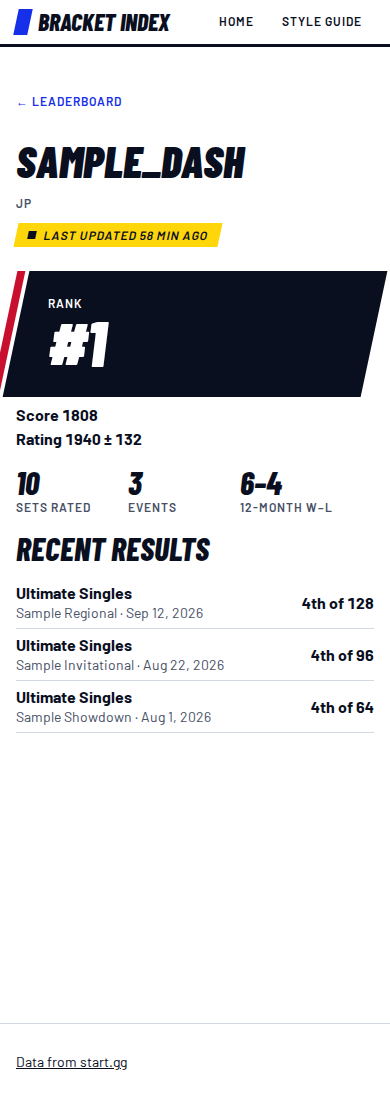
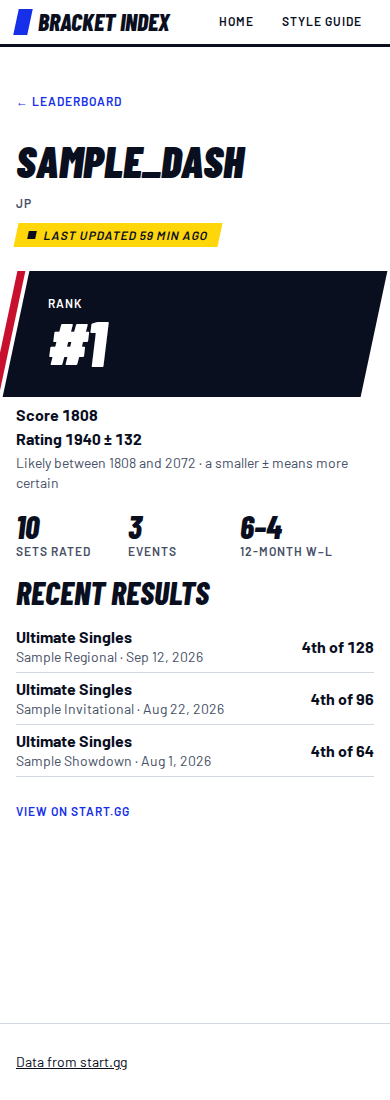
fix(app): player page hydration, start.gg URL allow-list, single-segment rewrite
Claude-Session: https://claude.ai/code/session_01EmiPNYLaxRfYJT2qzBUjng

Changed region(s): [[0.0308, 0.4018, 0.5846, 0.7418], [0.5231, 0.4018, 0.9538, 0.7109]]

diff --git a/e2e/tests/player.spec.ts b/e2e/tests/player.spec.ts
@@ -27,6 +27,13 @@ async function expectNoSeriousViolations(page: Page) {
   );
 }
 
+// Any uncaught page error (such as a React hydration mismatch) fails the test.
+test.beforeEach(({ page }) => {
+  page.on("pageerror", (error) => {
+    throw error;
+  });
+});
+
 test("opens a player from a leaderboard row", async ({ page, request }) => {
   const top = await findPlayer(request, true);
   await page.goto("/");
@@ -54,7 +61,10 @@ test("a ranked player shows rank, score, rating, stats, results and attribution"
   const results = page.getByRole("list", { name: "Recent results" });
   await expect(results.getByRole("listitem").first()).toContainText(/\d+(st|nd|rd|th) of \d+/);
   await expect(page.getByRole("link", { name: /Data from start\.gg/ })).toBeVisible();
-  await expect(page.getByRole("link", { name: /Leaderboard/ })).toHaveAttribute("href", "/");
+  await expect(page.getByRole("link", { name: "Back to leaderboard" })).toHaveAttribute(
+    "href",
+    "/",
+  );
   await expectNoSeriousViolations(page);
 });
 
@@ -66,23 +76,44 @@ test("an unranked player says why", async ({ page, request }) => {
   await expectNoSeriousViolations(page);
 });
 
-test("the start.gg link opens externally and safely when present", async ({ page, request }) => {
-  const top = await findPlayer(request, true);
-  const data = (await (await request.get(`${API}/v1/players/${top.playerId}`)).json()) as {
-    startggUrl: string | null;
+test("the seeded Sample_Dash links to start.gg, opening safely in a new tab", async ({
+  page,
+  request,
+}) => {
+  const hits = (await (await request.get(`${API}/v1/search?q=sample_dash`)).json()) as {
+    results: Hit[];
   };
-  await page.goto(`/player/${top.playerId}-x`);
+  await page.goto(`/player/${hits.results[0]?.playerId}-sample-dash`);
   const link = page.getByRole("link", { name: /View on start\.gg/ });
-  if (data.startggUrl === null) return expect(link).toHaveCount(0);
+  await expect(link).toHaveAttribute("href", /^https:\/\/www\.start\.gg\//);
   await expect(link).toHaveAttribute("rel", /noopener/);
   await expect(link).toHaveAttribute("target", "_blank");
 });
 
+test("a direct visit shows the skeleton, not 'not found', before the app loads", async ({
+  page,
+  request,
+}) => {
+  const top = await findPlayer(request, true);
+  await page.route("**/*.js", async (route) => {
+    await new Promise((resolve) => setTimeout(resolve, 1500));
+    await route.continue();
+  });
+  await page.goto(`/player/${top.playerId}-x`, { waitUntil: "commit" });
+  await expect(page.getByRole("status", { name: "Loading player" })).toBeVisible();
+  await expect(page.getByText("Player not found")).toHaveCount(0);
+  await expect(page.getByRole("heading", { level: 1, name: top.gamerTag })).toBeVisible();
+});
+
 for (const path of ["/player/not-a-number", "/player/999999999-ghost"]) {
   test(`${path} shows not found with a way back`, async ({ page }) => {
+    const notFoundResponse = path.includes("ghost")
+      ? page.waitForResponse((r) => r.url().includes("/v1/players/999999999") && r.status() === 404)
+      : Promise.resolve();
     await page.goto(path);
+    await notFoundResponse;
     await expect(page.getByRole("heading", { name: "Player not found" })).toBeVisible();
-    await expect(page.getByRole("link", { name: /Leaderboard/ })).toBeVisible();
+    await expect(page.getByRole("link", { name: "Back to leaderboard" })).toBeVisible();
     await expect(page.getByRole("link", { name: /Data from start\.gg/ })).toBeVisible();
     await expectNoSeriousViolations(page);
   });
@@ -90,11 +121,25 @@ for (const path of ["/player/not-a-number", "/player/999999999-ghost"]) {
 
 test("shows a skeleton, then an error with a working retry", async ({ page, request }) => {
   const top = await findPlayer(request, true);
-  await page.route("**/v1/players/*", (route) => route.abort());
+  let fail: () => void = () => {};
+  const failing = new Promise<void>((resolve) => (fail = resolve));
+  await page.route("**/v1/players/*", async (route) => {
+    await failing;
+    await route.abort();
+  });
   await page.goto(`/player/${top.playerId}-x`);
+  await expect(page.getByRole("status", { name: "Loading player" })).toBeVisible();
+  fail();
   await expect(page.getByRole("alert")).toContainText("We could not load this player");
+  await expect(page.getByRole("heading", { level: 1, name: "Couldn't load player" })).toBeVisible();
   await expectNoSeriousViolations(page);
   await page.unroute("**/v1/players/*");
   await page.getByRole("button", { name: "Try again" }).click();
   await expect(page.getByRole("heading", { level: 1, name: top.gamerTag })).toBeVisible();
+});
+
+test("an unranked player's score is labelled provisional", async ({ page, request }) => {
+  const unranked = await findPlayer(request, false);
+  await page.goto(`/player/${unranked.playerId}-x`);
+  await expect(page.getByText(/^Provisional score \d+/)).toBeVisible();
 });

diff --git a/apps/app/src/app/player/[idSlug].tsx b/apps/app/src/app/player/[idSlug].tsx
@@ -1,3 +1,4 @@
+import { useEffect, useState } from "react";
 import { Link, useLocalSearchParams } from "expo-router";
 import Head from "expo-router/head";
 import { Linking, Platform, Pressable, StyleSheet, View, type PressableProps } from "react-native";
@@ -20,12 +21,15 @@ import { describeNotRanked, formatDate, formatPlacement, parsePlayerId } from ".
 /** Text button/link with a 44 px target and visible focus. `external` opens in a new tab or the browser. */
 function ActionLink({
   label,
+  text,
   href,
   external,
   onPress,
   solid,
 }: {
   label: string;
+  /** Visible text when it differs from the accessible label (e.g. an arrow that screen readers skip). */
+  text?: string;
   href?: string;
   external?: boolean;
   onPress?: PressableProps["onPress"];
@@ -44,14 +48,14 @@ function ActionLink({
   const node = (
     <Pressable
       role={onPress && !href ? "button" : "link"}
-      aria-label={external ? `${label} (opens in a new tab)` : label}
+      aria-label={external && Platform.OS === "web" ? `${label} (opens in a new tab)` : label}
       onPress={press}
       {...ring.handlers}
       {...webProps}
       style={StyleSheet.flatten([styles.action, solid && styles.solid, ring.style])}
     >
       <BodyText variant="label" color={solid ? colors.white : colors.accent}>
-        {label}
+        {text ?? label}
       </BodyText>
     </Pressable>
   );
@@ -66,7 +70,7 @@ function ActionLink({
 
 function Stat({ label, value }: { label: string; value: string }) {
   return (
-    <View style={styles.stat} accessible aria-label={`${label}: ${value}`}>
+    <View style={styles.stat}>
       <DisplayText variant="h2" level={null}>
         {value}
       </DisplayText>
@@ -111,15 +115,20 @@ function PlayerDetails({ player }: { player: PlayerResponse }) {
           <BodyText role="status">{describeNotRanked(player.notRankedReason)}</BodyText>
         ) : null}
         {player.conservativeScore !== null ? (
-          <BodyText variant="stat">Score {player.conservativeScore}</BodyText>
+          <BodyText variant="stat">
+            {player.rank === null ? "Provisional score" : "Score"} {player.conservativeScore}
+          </BodyText>
         ) : null}
         {rating !== null && margin !== null ? (
-          <BodyText
-            variant="stat"
-            aria-label={`Rating ${Math.round(rating)}, give or take ${margin}. The true skill is very likely between ${Math.round(rating) - margin} and ${Math.round(rating) + margin}. A smaller number means we are more sure.`}
-          >
-            Rating {Math.round(rating)} ± {margin}
-          </BodyText>
+          <>
+            <BodyText variant="stat">
+              Rating {Math.round(rating)} ± {margin}
+            </BodyText>
+            <BodyText variant="bodySm" muted>
+              Likely between {Math.round(rating) - margin} and {Math.round(rating) + margin} · a
+              smaller ± means more certain
+            </BodyText>
+          </>
         ) : null}
       </View>
       <View role="group" aria-label="Stats" style={[styles.pad, styles.stats]}>
@@ -167,7 +176,11 @@ export default function PlayerPage() {
   const description = player
     ? `${player.gamerTag}: ${player.rank === null ? "not yet ranked" : `ranked #${player.rank}`} in Super Smash Bros. Ultimate. Results from start.gg.`
     : "Super Smash Bros. Ultimate player profile.";
-  const notFound = playerId === null || (query.isSuccess && player === null);
+  // The static HTML is built with the literal "[idSlug]", so wait for the browser before trusting the id.
+  const [mounted, setMounted] = useState(false);
+  useEffect(() => setMounted(true), []);
+  const idKnown = mounted && !!idSlug && idSlug !== "[idSlug]";
+  const notFound = idKnown && (playerId === null || (query.isSuccess && player === null));
 
   return (
     <Page>
@@ -178,7 +191,7 @@ export default function PlayerPage() {
         <meta property="og:description" content={description} />
       </Head>
       <View style={styles.pad}>
-        <ActionLink label="← Leaderboard" href="/" />
+        <ActionLink label="Back to leaderboard" text="← Leaderboard" href="/" />
       </View>
       {notFound ? (
         <View role="alert" style={styles.pad}>
@@ -187,6 +200,7 @@ export default function PlayerPage() {
         </View>
       ) : query.isError ? (
         <View role="alert" style={styles.pad}>
+          <DisplayText variant="h1">Couldn&apos;t load player</DisplayText>
           <BodyText>We could not load this player. Check your connection and try again.</BodyText>
           <ActionLink label="Try again" onPress={() => void query.refetch()} solid />
         </View>

diff --git a/packages/core/src/api.test.ts b/packages/core/src/api.test.ts
@@ -1,0 +1,38 @@
+import { describe, expect, it } from "vitest";
+import { playerResponseSchema } from "./api";
+
+const base = {
+  playerId: "1",
+  gamerTag: "A",
+  prefix: null,
+  countryCode: null,
+  startggUrl: null as string | null,
+  rank: null,
+  eligible: false,
+  notRankedReason: null,
+  conservativeScore: null,
+  rating: null,
+  ratingDeviation: null,
+  ratedSets: 0,
+  qualifyingEvents: 0,
+  setRecord: { wins: 0, losses: 0 },
+  recentResults: [],
+  attribution: "Data from start.gg",
+};
+
+describe("player startggUrl", () => {
+  it("accepts null and https www.start.gg links", () => {
+    expect(playerResponseSchema.safeParse(base).success).toBe(true);
+    const ok = { ...base, startggUrl: "https://www.start.gg/user/abc123" };
+    expect(playerResponseSchema.safeParse(ok).success).toBe(true);
+  });
+  it.each([
+    "javascript:alert(1)",
+    "data:text/html,hi",
+    "http://www.start.gg/user/a",
+    "https://evil.example/user/a",
+    "https://start.gg.evil.example/user/a",
+  ])("rejects %s", (url) => {
+    expect(playerResponseSchema.safeParse({ ...base, startggUrl: url }).success).toBe(false);
+  });
+});

diff --git a/packages/core/src/api.ts b/packages/core/src/api.ts
@@ -100,7 +100,8 @@ export const playerResponseSchema = z.strictObject({
   gamerTag: z.string(),
   prefix: z.string().nullable(),
   countryCode: z.string().nullable(),
-  startggUrl: z.url().nullable(),
+  /** Only https links on www.start.gg, because the app opens this URL. */
+  startggUrl: z.url({ protocol: /^https$/, hostname: /^www\.start\.gg$/ }).nullable(),
   rank: z.number().int().positive().nullable(),
   eligible: z.boolean(),
   notRankedReason: notRankedReasonSchema.nullable(),

diff --git a/apps/app/src/lib/format.ts b/apps/app/src/lib/format.ts
@@ -56,7 +56,7 @@ export function describeNotRanked(reason: {
   ].filter(Boolean);
   const parts = [
     needs.length > 0 ? `Needs ${needs.join(" and ")}.` : null,
-    reason.uncertaintyTooHigh ? "Rating still uncertain; plays more to settle." : null,
+    reason.uncertaintyTooHigh ? "Needs more sets for the rating to settle." : null,
   ].filter(Boolean);
   return parts.join(" ") || "Waiting for the next ranking update.";
 }

diff --git a/packages/db/src/seed.ts b/packages/db/src/seed.ts
@@ -93,6 +93,7 @@ export async function seedSynthetic(
     id: id(index + 1),
     gamerTag: `Sample_${word}`,
     countryCode: COUNTRIES[index % COUNTRIES.length] ?? null,
+    userSlug: word === "Dash" ? "user/sample-dash" : null, // one ranked player has a start.gg link for e2e
   }));
   const tournamentRows = TOURNAMENT_NAMES.map((name, index) => ({
     id: id(index + 1),

diff --git a/apps/app/src/lib/format.test.ts b/apps/app/src/lib/format.test.ts
@@ -60,7 +60,7 @@ describe("player page helpers", () => {
       "Needs 1 more rated set and 2 more events.",
     );
     expect(describeNotRanked({ setsNeeded: 0, eventsNeeded: 0, uncertaintyTooHigh: true })).toBe(
-      "Rating still uncertain; plays more to settle.",
+      "Needs more sets for the rating to settle.",
     );
   });
 });
